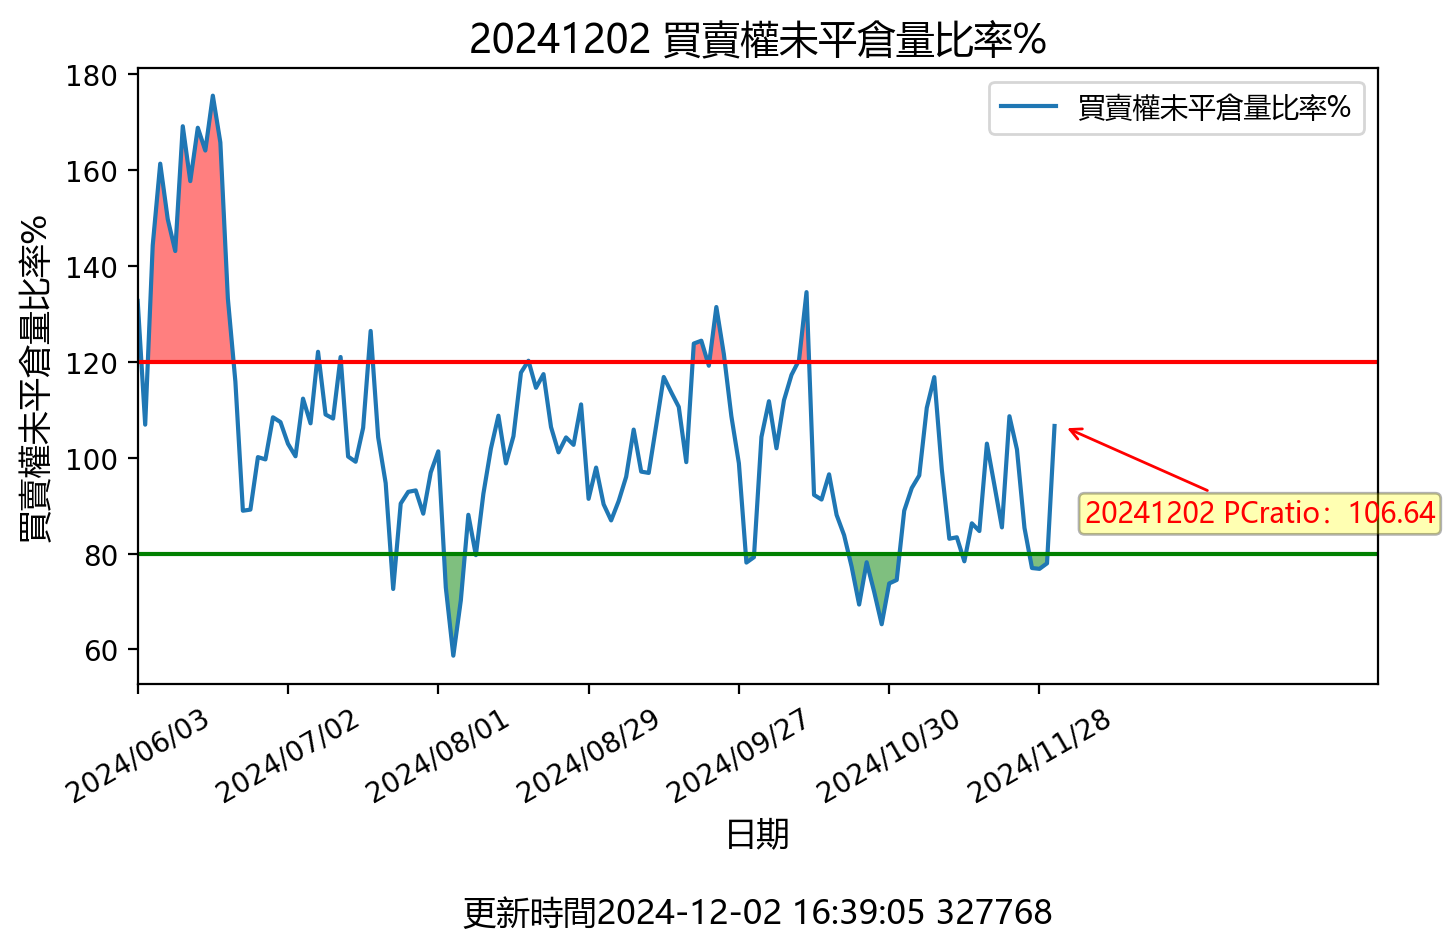
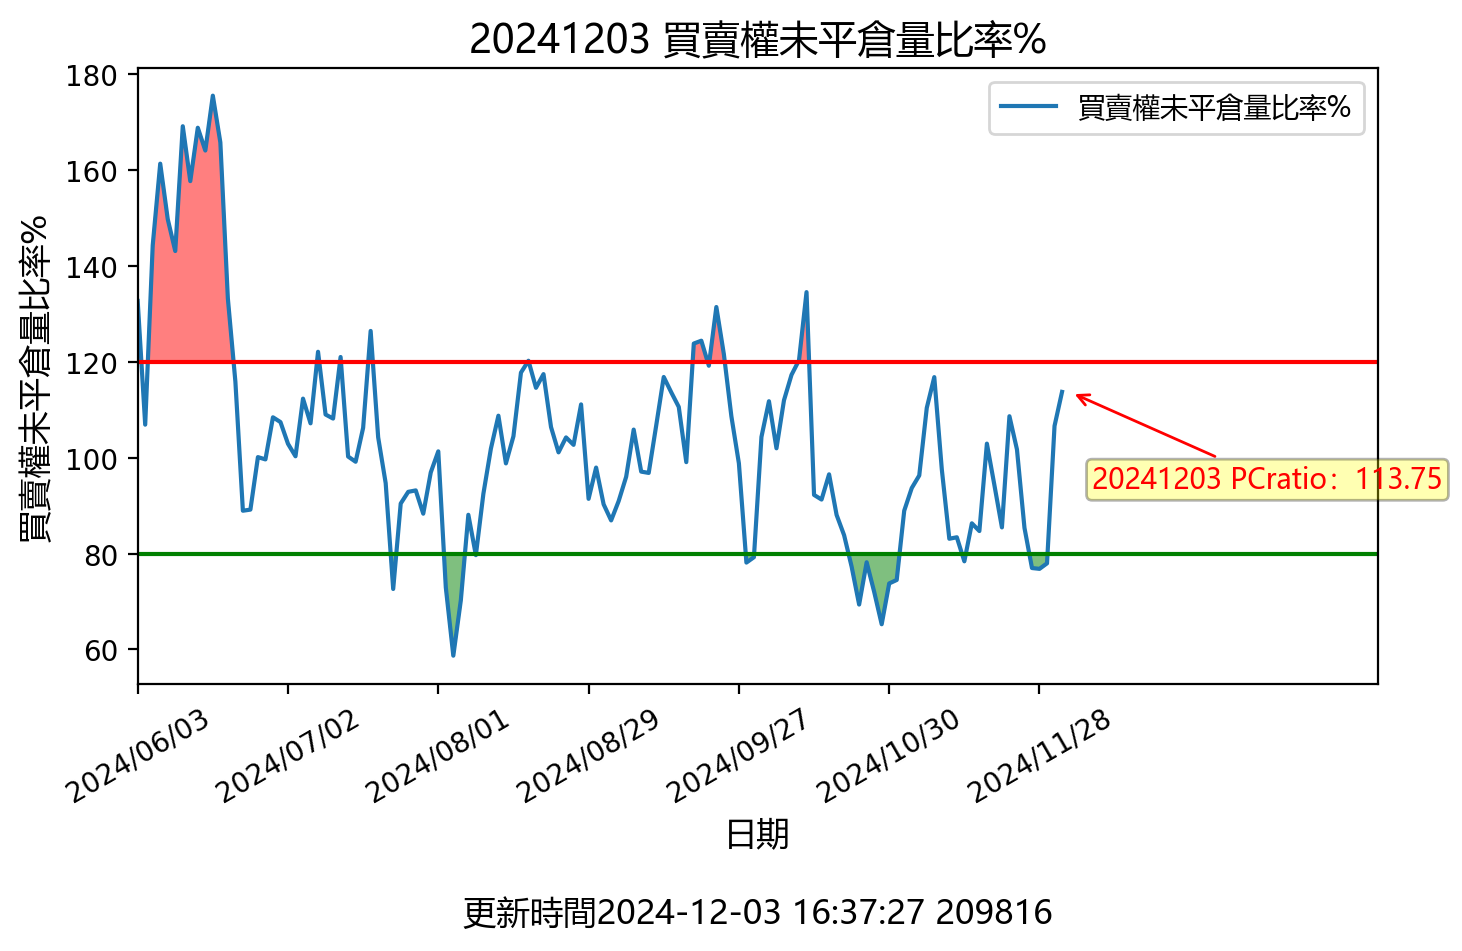
更新時間: Tue Dec  3 16:37:45 CST 2024

diff --git a/README.md b/README.md
@@ -1,12 +1,12 @@
-## 20241202 台指期「預估換倉成本」
+## 20241203 台指期「預估換倉成本」
 ![](images/txfcost.png)
 
-## 20241202 台指期「散戶小台多空比」
+## 20241203 台指期「散戶小台多空比」
 ![](images/bbiri.png)
 
-## 20241202 台指選擇權「Put/Call Ratios」
+## 20241203 台指選擇權「Put/Call Ratios」
 ![](images/pcratio.png)
 
-## 20241202 台指期「大額交易人」
+## 20241203 台指期「大額交易人」
 ![](images/blocktrade.png)
 
